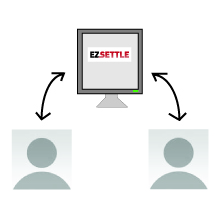
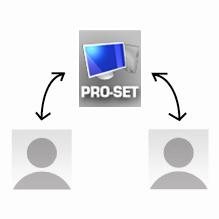
add images

Changed region(s): [[0.3288, 0.1096, 0.6575, 0.4932], [0.2466, 0.3288, 0.3014, 0.3562], [0.7397, 0.3288, 0.7671, 0.3562]]

diff --git a/ezsettle/offer.php b/ezsettle/offer.php
@@ -5,7 +5,7 @@ $newOld = array_merge($_SESSION['chatOld'], $_SESSION['chatNew']);
 $_SESSION['chatOld'] = $newOld;
 
 $_SESSION['offer_titles'] = array(	1 => "Your First Offer",
-									2 => "Casy345's First Counter Offer",
+									2 => "Seller345's First Counter Offer",
 									4 => "Your Second Offer",
 									5 => "Seller345's Second Counter Offer",
 									7 => "Your Final Offer",
@@ -32,8 +32,8 @@ switch($_SESSION['condition']) {
 		$goods = "goods";
 		$past_v2be = "were";
 		$present_v2be_cap = "Are";
-		$ezsettle = "The system";
-		$mediator = "the system";
+		$ezsettle = "ProSet™";
+		$mediator = "ProSet™";
 		$mediator2 = "the mediation software";
 		$ezsettle_i_small = "the system";
 		$ezsettle_me = "EZSettle";
@@ -158,16 +158,22 @@ switch($_SESSION['offer_num']) {
 									'style'=>'second_party',
 								'message' =>"Again, the laptop was in perfect condition when I sent it, and I don't think that you can prove
 										otherwise. &quot;Emotional distress&quot; has nothing to do with me, much like the rental computer. BUT,
-										following the{$mediator2}'s suggestion, I'm willing to offer something
+										following {$mediator2}'s suggestion, I'm willing to offer something
 										because of the chance that I didn't pack the laptop well, and because I'm willing to accept that
 										there is a chance that the laptop was somehow damaged on its way to you, I’ll split the money
 										for that. I hope this settles the case.")
 								);
 		break;
 	case 6:
+		$s = "";
+		if ($ezsettle_i_small == "I"){
+			$s = "";	
+		}else{
+			$s = "s";	
+		}
 		$_SESSION['chatNew'] = array(
 									array( 'speaker' => 'Mediator',
-										'message' =>"You and Seller345 made some good progress, but your offers are still quite far apart. Before you make your last offer, {$mediator} would like you to think creatively about options you may have not considered yet. Is the laptop of any value to you? Can you keep the laptop for your personal use? Can you re-sell the laptop? If such ideas appeal to you, perhaps you could yourself and ask Seller345 for less money.? "
+										'message' =>"You and Seller345 made some good progress, but your offers are still quite far apart. Before you make your last offer, {$mediator} encourage".$s." you to think creatively about options you may have not considered yet. Is the laptop of any value to you? Can you keep the laptop for your personal use? Can you re-sell the laptop? If such ideas appeal to you, perhaps you could ask Seller345 for less money.? "
 									),
 									array('speaker' => 'Mediator',
 									'message'=>"Please indicate here how willing you are to consider these options.{$ezsettle} will NOT share this information with Seller345.")

diff --git a/ezsettle/issues2.php b/ezsettle/issues2.php
@@ -8,7 +8,7 @@ switch($_SESSION['condition']) {
 	case 2:
 	case 5:
 		$typing = "The system is generating text ...";
-		$me = "the system";
+		$me = "ProSet™";
 		break;
 	case 3:
 	case 4:
